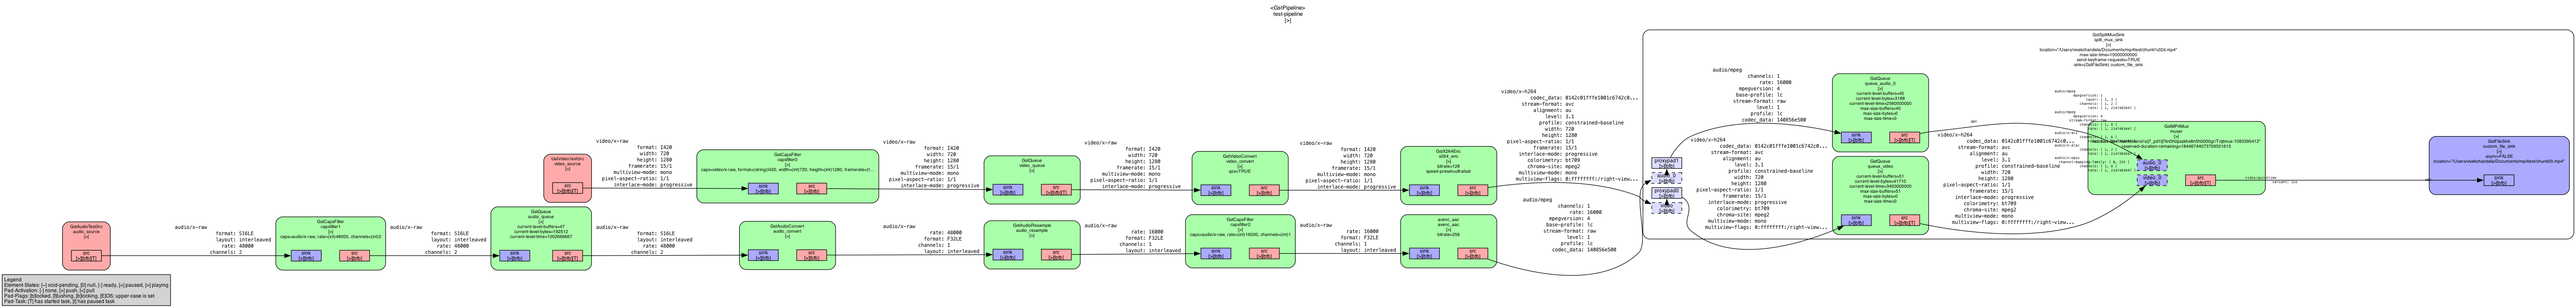
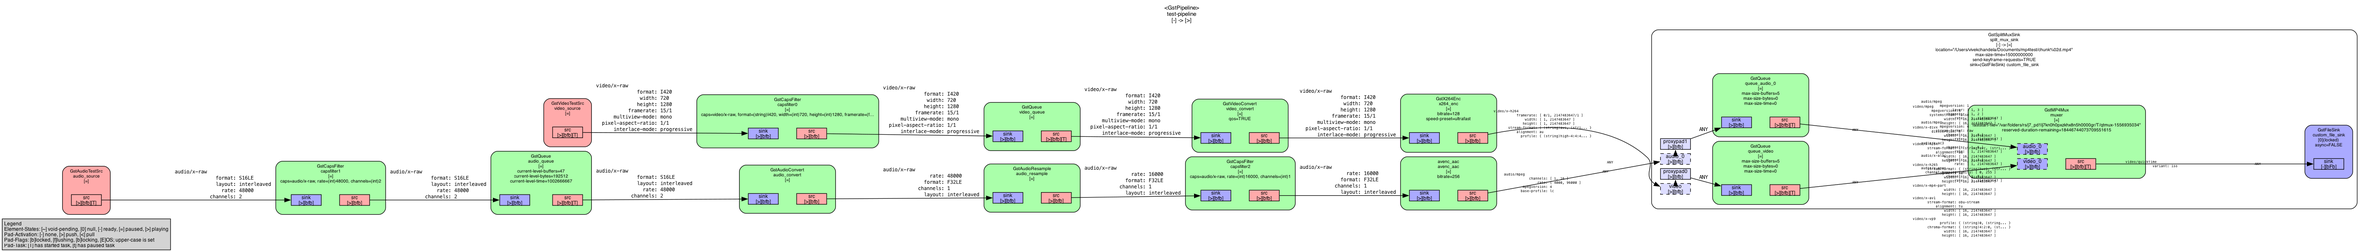
feat: format-location signal for dynamic filenames

diff --git a/doubletee/doubletee-doublequeue.c b/doubletee/doubletee-doublequeue.c
@@ -1,5 +1,25 @@
 #include <gst/gst.h>
-#include <stdbool.h>    
+#include <stdbool.h>
+#include <time.h>
+#include <sys/time.h>
+
+#define SEGMENT_DURATION 15000 // Duration for each segment in milliseconds
+
+// Function to get the current time in milliseconds since the Unix epoch
+static long long current_time_millis() {
+    struct timeval time_now;
+    gettimeofday(&time_now, NULL);
+    return (long long)(time_now.tv_sec) * 1000 + (long long)(time_now.tv_usec) / 1000;
+}
+
+static gchar* format_location_callback(GstElement *splitmuxsink, guint fragment_id, gpointer user_data) {
+    // Get the (Unix epoch time) for start and end time
+    long long start_time = current_time_millis();
+    long long end_time = start_time + SEGMENT_DURATION;
+
+    gchar *filename = g_strdup_printf("/Users/vivekchandela/Documents/mp4test/%lld_%lld.mp4", start_time, end_time);
+    return filename;
+}
 
 static gboolean link_elements_with_video_filter (GstElement *element1, GstElement *element2)
 {
@@ -47,7 +67,7 @@ int main(int argc, char *argv[]) {
     GstElement *pipeline;
     GstElement *video_source, *video_queue, *video_convert, *x264_enc, *video_tee, *video_flv_queue;
     GstElement *audio_source, *audio_queue, *audio_convert, *audio_resample, *avenc_aac, *audio_tee, *audio_flv_queue;
-    GstElement *flv_mux, *flv_filesink, *split_mux_sink;
+    GstElement *flv_mux, *flv_filesink, *split_mux_sink, *custom_file_sink;
 
     GstBus *bus;
     GstMessage *msg;
@@ -60,8 +80,6 @@ int main(int argc, char *argv[]) {
 
     GstPad *video_flv_queue_src_pad, *audio_flv_queue_src_pad;
     GstPad *flv_mux_video_pad, *flv_mux_audio_pad;
-
-    GstStructure *sink_props;
 
     /* Initialize GStreamer */
     gst_init (&argc, &argv);
@@ -85,6 +103,7 @@ int main(int argc, char *argv[]) {
     flv_mux = gst_element_factory_make ("flvmux", "flv_mux");
     flv_filesink = gst_element_factory_make ("filesink", "flv_filesink");
     split_mux_sink = gst_element_factory_make ("splitmuxsink", "split_mux_sink");
+    custom_file_sink = gst_element_factory_make ("filesink", "custom_file_sink");
 
     /* Create the empty pipeline */
     pipeline = gst_pipeline_new ("test-pipeline");
@@ -98,17 +117,16 @@ int main(int argc, char *argv[]) {
         g_print ("All elements created successfully.\n");
     }
 
-    /* Create the sink properties structure */
-    sink_props = gst_structure_new("properties",
-                    "sync", G_TYPE_BOOLEAN, TRUE,
-                    NULL);
-
     /* Configure elements */
     g_object_set (x264_enc, "speed-preset", 1, "bitrate", 128, NULL);
     g_object_set (avenc_aac, "bitrate", 256, NULL);
     g_object_set (flv_mux, "streamable", true, "enforce-increasing-timestamps", false, NULL);
     g_object_set (flv_filesink, "location", "/Users/vivekchandela/Documents/flvtest/output.flv", "sync", true, NULL);
-    g_object_set(split_mux_sink, "location", "/Users/vivekchandela/Documents/mp4test/chunk%02d.mp4", "max-size-time", 15000000000, "async-finalize", true, "send-keyframe-requests", true, "sink-properties", sink_props, NULL);
+    g_object_set (custom_file_sink, "sync", true, NULL);
+    g_object_set(split_mux_sink, "location", "/Users/vivekchandela/Documents/mp4test/chunk%02d.mp4", "max-size-time", (guint64)SEGMENT_DURATION * GST_MSECOND, "send-keyframe-requests", true, "sink", custom_file_sink, NULL);
+
+    // Connect the format-location signal to generate dynamic filenames
+    g_signal_connect(split_mux_sink, "format-location", G_CALLBACK(format_location_callback), NULL);
 
     g_print ("All elements configured successfully.\n");
   

diff --git a/splitmuxsink/splitmuxsink-sync-true.c b/splitmuxsink/splitmuxsink-sync-true.c
@@ -1,5 +1,25 @@
 #include <gst/gst.h>
-#include <stdbool.h>    
+#include <stdbool.h>
+#include <time.h>
+#include <sys/time.h>
+
+#define SEGMENT_DURATION 15000 // Duration for each segment in milliseconds
+
+// Function to get the current time in milliseconds since the Unix epoch
+static long long current_time_millis() {
+    struct timeval time_now;
+    gettimeofday(&time_now, NULL);
+    return (long long)(time_now.tv_sec) * 1000 + (long long)(time_now.tv_usec) / 1000;
+}
+
+static gchar* format_location_callback(GstElement *splitmuxsink, guint fragment_id, gpointer user_data) {
+    // Get the (Unix epoch time) for start and end time
+    long long start_time = current_time_millis();
+    long long end_time = start_time + SEGMENT_DURATION;
+
+    gchar *filename = g_strdup_printf("/Users/vivekchandela/Documents/mp4test/%lld_%lld.mp4", start_time, end_time);
+    return filename;
+}    
 
 static gboolean link_elements_with_video_filter (GstElement *element1, GstElement *element2)
 {
@@ -94,7 +114,10 @@ int main(int argc, char *argv[]) {
     /* Configure elements */
     g_object_set (x264_enc, "speed-preset", 1, "bitrate", 128, NULL);
     g_object_set (avenc_aac, "bitrate", 256, NULL);
-    g_object_set(split_mux_sink, "location", "/Users/vivekchandela/Documents/mp4test/chunk%02d.mp4", "max-size-time", 15000000000, "async-finalize", true, "send-keyframe-requests", true, "sink-properties", sink_props, NULL);
+    g_object_set(split_mux_sink, "location", "/Users/vivekchandela/Documents/mp4test/chunk%02d.mp4", "max-size-time", (guint64)SEGMENT_DURATION * GST_MSECOND, "async-finalize", true, "send-keyframe-requests", true, "sink-properties", sink_props, NULL);
+
+    // Connect the format-location signal to generate dynamic filenames
+    g_signal_connect(split_mux_sink, "format-location", G_CALLBACK(format_location_callback), NULL);
 
     g_print ("All elements configured successfully.\n");
   
@@ -142,7 +165,7 @@ int main(int argc, char *argv[]) {
     gst_element_set_state (pipeline, GST_STATE_PLAYING);
 
     /* Visualize the pipeline using GraphViz */
-    gst_debug_bin_to_dot_file(GST_BIN(pipeline), GST_DEBUG_GRAPH_SHOW_ALL, "pipeline-splitmuxsink-sync-false");
+    gst_debug_bin_to_dot_file(GST_BIN(pipeline), GST_DEBUG_GRAPH_SHOW_ALL, "pipeline-splitmuxsink-sync-true");
 
     /* Wait until error or EOS */
     bus = gst_element_get_bus (pipeline);

diff --git a/splitmuxsink/splitmuxsink-custom-sink.c b/splitmuxsink/splitmuxsink-custom-sink.c
@@ -1,5 +1,25 @@
 #include <gst/gst.h>
-#include <stdbool.h>    
+#include <stdbool.h>
+#include <time.h>
+#include <sys/time.h>
+
+#define SEGMENT_DURATION 15000 // Duration for each segment in milliseconds
+
+// Function to get the current time in milliseconds since the Unix epoch
+static long long current_time_millis() {
+    struct timeval time_now;
+    gettimeofday(&time_now, NULL);
+    return (long long)(time_now.tv_sec) * 1000 + (long long)(time_now.tv_usec) / 1000;
+}
+
+static gchar* format_location_callback(GstElement *splitmuxsink, guint fragment_id, gpointer user_data) {
+    // Get the (Unix epoch time) for start and end time
+    long long start_time = current_time_millis();
+    long long end_time = start_time + SEGMENT_DURATION;
+
+    gchar *filename = g_strdup_printf("/Users/vivekchandela/Documents/mp4test/sink_%lld_%lld.mp4", start_time, end_time);
+    return filename;
+}    
 
 static gboolean link_elements_with_video_filter (GstElement *element1, GstElement *element2)
 {
@@ -54,8 +74,6 @@ int main(int argc, char *argv[]) {
 
     GstPad *x264enc_src_pad, *avenc_aac_src_pad;
     GstPad *splitmuxsink_video_pad, *splitmuxsink_audio_pad;
-
-    GstStructure *sink_props;
     
     /* Initialize GStreamer */
     gst_init (&argc, &argv);
@@ -91,7 +109,10 @@ int main(int argc, char *argv[]) {
     g_object_set (x264_enc, "speed-preset", 1, "bitrate", 128, NULL);
     g_object_set (avenc_aac, "bitrate", 256, NULL);
     g_object_set (custom_file_sink, "sync", true, NULL);
-    g_object_set(split_mux_sink, "location", "/Users/vivekchandela/Documents/mp4test/chunk%02d.mp4", "max-size-time", 15000000000, "send-keyframe-requests", true, "sink", custom_file_sink, NULL);
+    g_object_set(split_mux_sink, "location", "/Users/vivekchandela/Documents/mp4test/chunk%02d.mp4", "max-size-time", (guint64)SEGMENT_DURATION * GST_MSECOND, "send-keyframe-requests", true, "sink", custom_file_sink, NULL);
+
+    // Connect the format-location signal to generate dynamic filenames
+    g_signal_connect(split_mux_sink, "format-location", G_CALLBACK(format_location_callback), NULL);
 
     g_print ("All elements configured successfully.\n");
   
